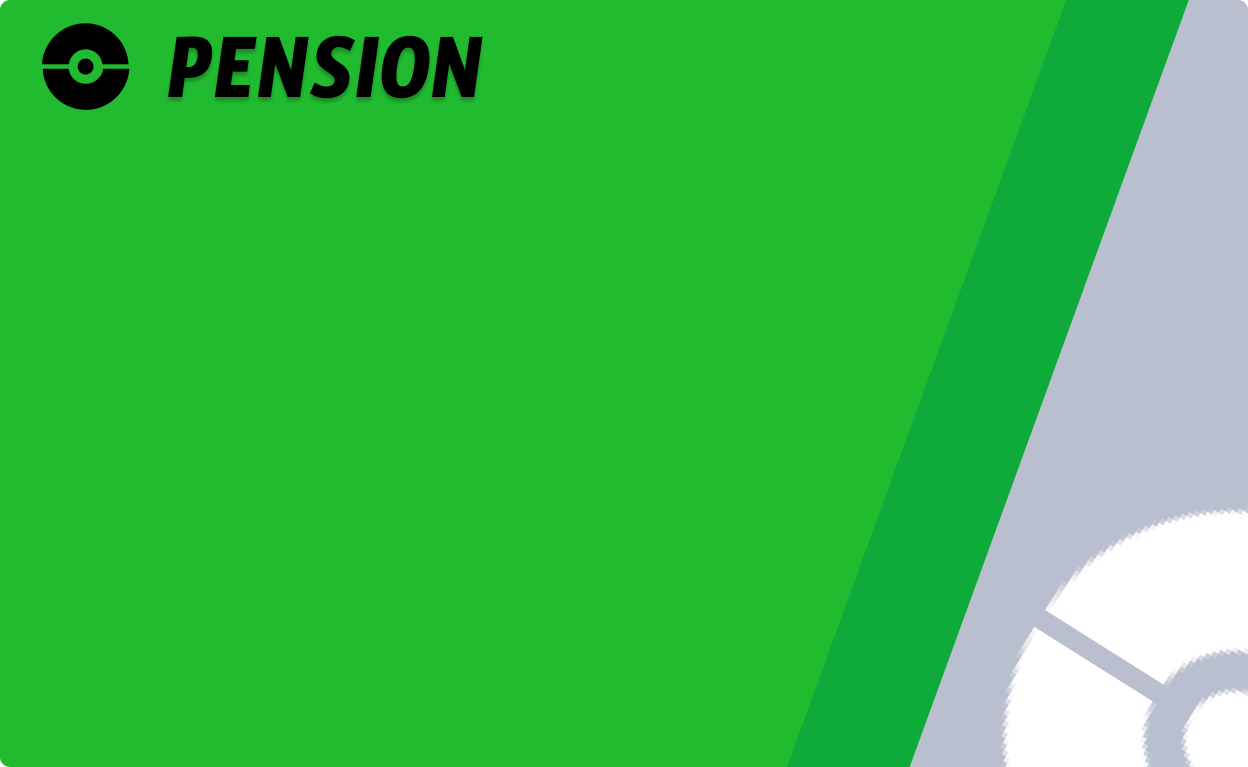
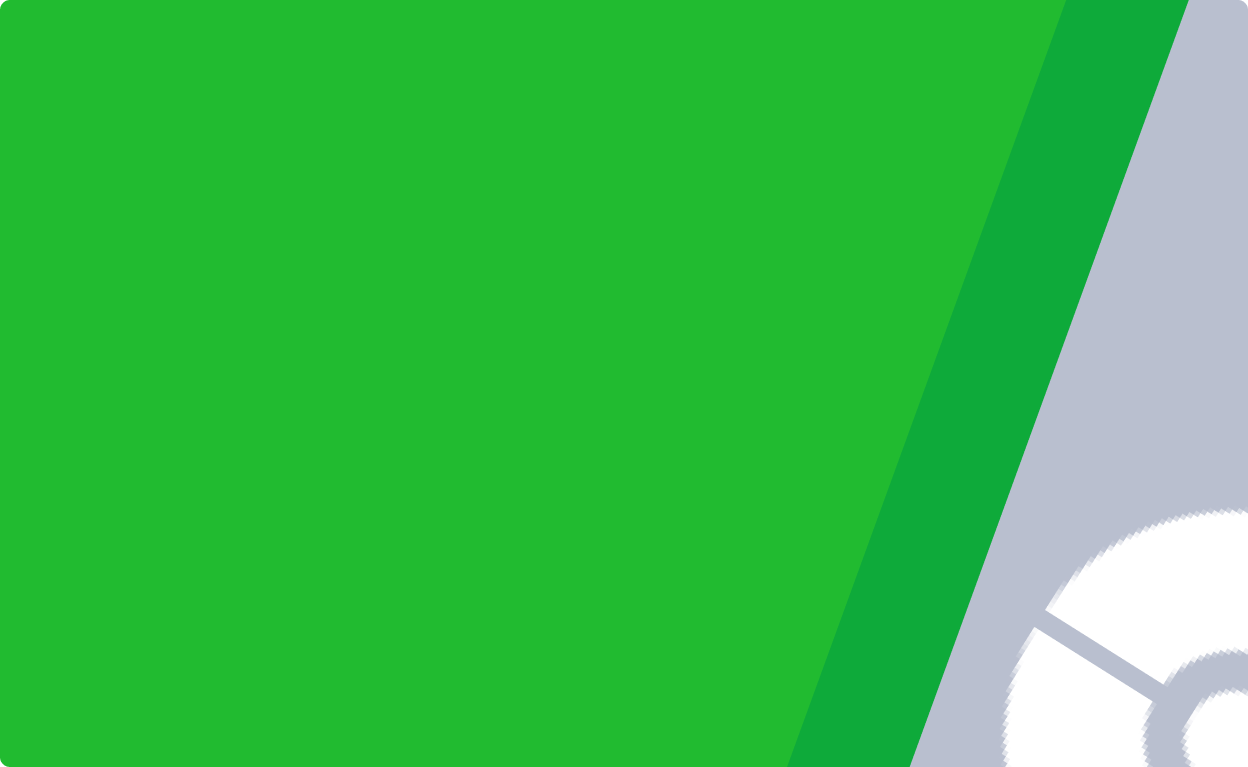
[STYLE] menu

Changed region(s): [[0.0312, 0.03, 0.4062, 0.1499]]

diff --git a/PokemonMS-Frontend/src/App.js b/PokemonMS-Frontend/src/App.js
@@ -22,33 +22,6 @@ class App extends React.Component {
     }
   }
 
-  initParralax() {
-    window.onpointermove = e => {
-      document.querySelectorAll("#App .cardParralax").forEach((app) => {
-        let div = app.querySelector(".backdrop h2, .backdrop img");
-        if(app.classList.contains("displayed")) {
-          div.style.transform = ``;
-          app.style.transform = ``;
-          return;
-        }
-        const r = div.getBoundingClientRect();
-        let x = e.clientX - r.x;
-        let y = e.clientY - r.y;
-        let u = x / app.clientWidth;
-        let v = y / app.clientHeight;
-        if(x > app.clientWidth) u = 1;
-        if(x < -app.clientWidth) u = -1;
-        if(y > app.clientHeight) v = 1;
-        if(y < -app.clientHeight) v = -1;
-
-        app.style.setProperty("--ry", `${(u-0.5)*10}deg`)
-        app.style.setProperty("--rx", `${(v-0.5)*-10}deg`)
-        div.style.transform = `perspective(10000px) rotateY(${(u-0.5)*10}deg) rotateX(${(v-0.5)*-10}deg) scale(1.1)translateZ(40px)`
-        app.style.transform = `perspective(10000px) rotateY(${(u-0.5)*10}deg) rotateX(${(v-0.5)*-10}deg)`
-      });
-    }
-  }
-
   async connect(event) {
     event.preventDefault();
     event.stopPropagation();
@@ -172,8 +145,6 @@ class App extends React.Component {
     )();
     let th = this;
     let className = this.state.jwt_token_is_verified ? "" : "loading";
-
-    this.initParralax();
 
     if(!this.state.jwt_token_is_verified || (this.state.connected && this.state.jwt_token_is_verified)) return (
       <div id="App" className={className}>

diff --git a/PokemonMS-Frontend/src/Egg/EggApp.js b/PokemonMS-Frontend/src/Egg/EggApp.js
@@ -34,8 +34,8 @@ class EggApp extends React.Component {
   }
 
   render() {
-    let className = "cardParralax";
-    if(this.state.isDisplayed) className = "cardParralax displayed";
+    let className = "cardMenu";
+    if(this.state.isDisplayed) className = "cardMenu displayed";
     ( async () => {
       let response = await fetch(IncubatorAdress + "/getIncubatorList?jwt_token=" + sessionStorage.getItem("jwt_token") + "&username=" + sessionStorage.getItem("username"));
       let incubators = await response.json();
@@ -43,12 +43,14 @@ class EggApp extends React.Component {
     })();
     return (
       <div id="EggApp" className={className}>
-        <div className="backdrop" onClick={() => this.setIsDisplayed(true)}>
+        <div className="backdrop">
+          <div className='bright-effect' onClick={() => this.setIsDisplayed(true)}></div>
           <h2> PENSION </h2>
         </div>
 
 
         <div id="EggWindow">
+          <h3> PENSION </h3>
           <BackButtonComponent onClick={() => this.setIsDisplayed(false)}></BackButtonComponent>
           <div id="Incubators">
             {this.state.incubators.map((incubator, index) => {

diff --git a/PokemonMS-Frontend/src/App.css b/PokemonMS-Frontend/src/App.css
@@ -379,3 +379,36 @@ h2 {
   border-radius: 2px;
   background: white;
 }
+
+.cardMenu .bright-effect {
+  content: "";
+  position: absolute;
+  left: 0;
+  right: 0;
+  bottom: 0;
+  top: 0;
+  border-radius: 25px;
+  background-repeat: no-repeat;
+  background-image: url("https://assets.codepen.io/13471/sparkles.gif"), 
+    url(https://assets.codepen.io/13471/holo.png), 
+    linear-gradient(125deg, #ff008450 15%, #fca40040 30%, #ffff0030 40%, #00ff8a20 60%, #00cfff40 70%, #cc4cfa50 85%);
+  background-position: 50% 50%;
+  background-size: 160%;
+  background-blend-mode: overlay;
+  z-index: 1;
+  filter: brightness(.7) contrast(1) blur(3px);
+  transition: all .33s ease;
+  mix-blend-mode: color-dodge;
+  opacity: .3;
+  cursor: pointer;
+}
+
+.cardMenu .backdrop > img, 
+  .cardMenu .backdrop > h2 {
+  transition: transform 0.15s ease-in-out;
+}
+
+.cardMenu:hover .backdrop > img,
+  .cardMenu:hover .backdrop > h2 {
+  transform: scale(1.05);
+}

diff --git a/PokemonMS-Frontend/src/Team/TeamApp.js b/PokemonMS-Frontend/src/Team/TeamApp.js
@@ -42,16 +42,18 @@ class TeamApp extends React.Component {
                 </li>
             );
         });
-        className = "cardParralax";
-        if(this.state.isDisplayed) className = "cardParralax displayed";
+        className = "cardMenu";
+        if(this.state.isDisplayed) className = "cardMenu displayed";
         return (
             <div id="TeamApp" className={className}>
-                <div className="backdrop" onClick={() => this.setIsDisplayed(true)}>
+                <div className="backdrop">
+                    <div className='bright-effect' onClick={() => this.setIsDisplayed(true)}></div>
                     <img className="littleIco" src="/HomeIco/TeamIco.png"/>
                 </div>
 
 
                 <div id="TeamWindow">
+                    <h3>POKEMON TEAM</h3>
                     <div className="pokemonList">
                         <ul>
                             {list}

diff --git a/PokemonMS-Frontend/src/Settings/SettingsApp.js b/PokemonMS-Frontend/src/Settings/SettingsApp.js
@@ -15,11 +15,12 @@ class SettingsApp extends React.Component {
   }
 
   render() {
-    let className = "cardParralax";
-    if(this.state.isDisplayed) className = "cardParralax displayed";
+    let className = "cardMenu";
+    if(this.state.isDisplayed) className = "cardMenu displayed";
     return (
-      <div id="SettingsApp" className={className} onClick={() => this.setIsDisplayed(true)}>
+      <div id="SettingsApp" className={className}>
         <div className="backdrop">
+            <div className='bright-effect' onClick={() => this.setIsDisplayed(true)}></div>
             <img className="littleIco" src="/HomeIco/SettingsIco.png"/>
         </div>
 

diff --git a/PokemonMS-Frontend/src/Fight/FightApp.js b/PokemonMS-Frontend/src/Fight/FightApp.js
@@ -15,12 +15,13 @@ class FightApp extends React.Component {
   }
 
   render() {
-    let className = "cardParralax";
-    if(this.state.isDisplayed) className = "cardParralax displayed";
+    let className = "cardMenu";
+    if(this.state.isDisplayed) className = "cardMenu displayed";
     return (
-      <div id="FightApp" className={className} onClick={() => this.setIsDisplayed(true)}>
+      <div id="FightApp" className={className}>
 
         <div className="backdrop">
+            <div className='bright-effect' onClick={() => this.setIsDisplayed(true)}></div>
             <h2> COMBATS </h2>
         </div>
 

diff --git a/PokemonMS-Frontend/src/Farm/FarmApp.js b/PokemonMS-Frontend/src/Farm/FarmApp.js
@@ -15,11 +15,12 @@ class FarmApp extends React.Component {
   }
 
   render() {
-    let className = "cardParralax";
-    if(this.state.isDisplayed) className = "cardParralax displayed";
+    let className = "cardMenu";
+    if(this.state.isDisplayed) className = "cardMenu displayed";
     return (
-      <div id="FarmApp" className={className} onClick={() => this.setIsDisplayed(true)}>
+      <div id="FarmApp" className={className}>
         <div className="backdrop">
+          <div className='bright-effect' onClick={() => this.setIsDisplayed(true)}></div>
           <h2> FARM </h2>
         </div>
 

diff --git a/PokemonMS-Frontend/src/Shop/ShopApp.js b/PokemonMS-Frontend/src/Shop/ShopApp.js
@@ -15,11 +15,12 @@ class ShopApp extends React.Component {
   }
 
   render() {
-    let className = "cardParralax";
-    if(this.state.isDisplayed) className = "cardParralax displayed";
+    let className = "cardMenu";
+    if(this.state.isDisplayed) className = "cardMenu displayed";
     return (
-      <div id="ShopApp" className={className} onClick={() => this.setIsDisplayed(true)}>
+      <div id="ShopApp" className={className}>
         <div className="backdrop">
+          <div className='bright-effect' onClick={() => this.setIsDisplayed(true)}></div>
           <h2> SHOP </h2>
         </div>
 

diff --git a/PokemonMS-Frontend/src/Profile/ProfileApp.js b/PokemonMS-Frontend/src/Profile/ProfileApp.js
@@ -4,7 +4,7 @@ import React from 'react';
 class ProfileApp extends React.Component {
   render() {
     return (
-      <div id="ProfileApp" className='cardParralax'>
+      <div id="ProfileApp" className='cardMenu'>
         <div className="backdrop">
             <img className="littleIco" src="/HomeIco/ProfileIco.png"/>
         </div>

diff --git a/PokemonMS-Frontend/src/Team/TeamApp.css b/PokemonMS-Frontend/src/Team/TeamApp.css
@@ -113,3 +113,13 @@ input {
 ul {
     list-style: none;
 }
+
+#TeamApp #TeamWindow h3 {
+    position: absolute;
+    margin-top: 15px;
+    margin-left: 30px;
+    font-size: 70px;
+    color: black;
+    font-weight: 900;
+    font-style: italic;
+}

diff --git a/PokemonMS-Frontend/src/Egg/EggApp.css b/PokemonMS-Frontend/src/Egg/EggApp.css
@@ -183,3 +183,13 @@
     margin: 0;
     z-index: 1;
 }
+
+#EggApp #EggWindow h3 {
+    position: absolute;
+    margin-top: 15px;
+    margin-left: 30px;
+    font-size: 70px;
+    color: black;
+    font-weight: 900;
+    font-style: italic;
+}
